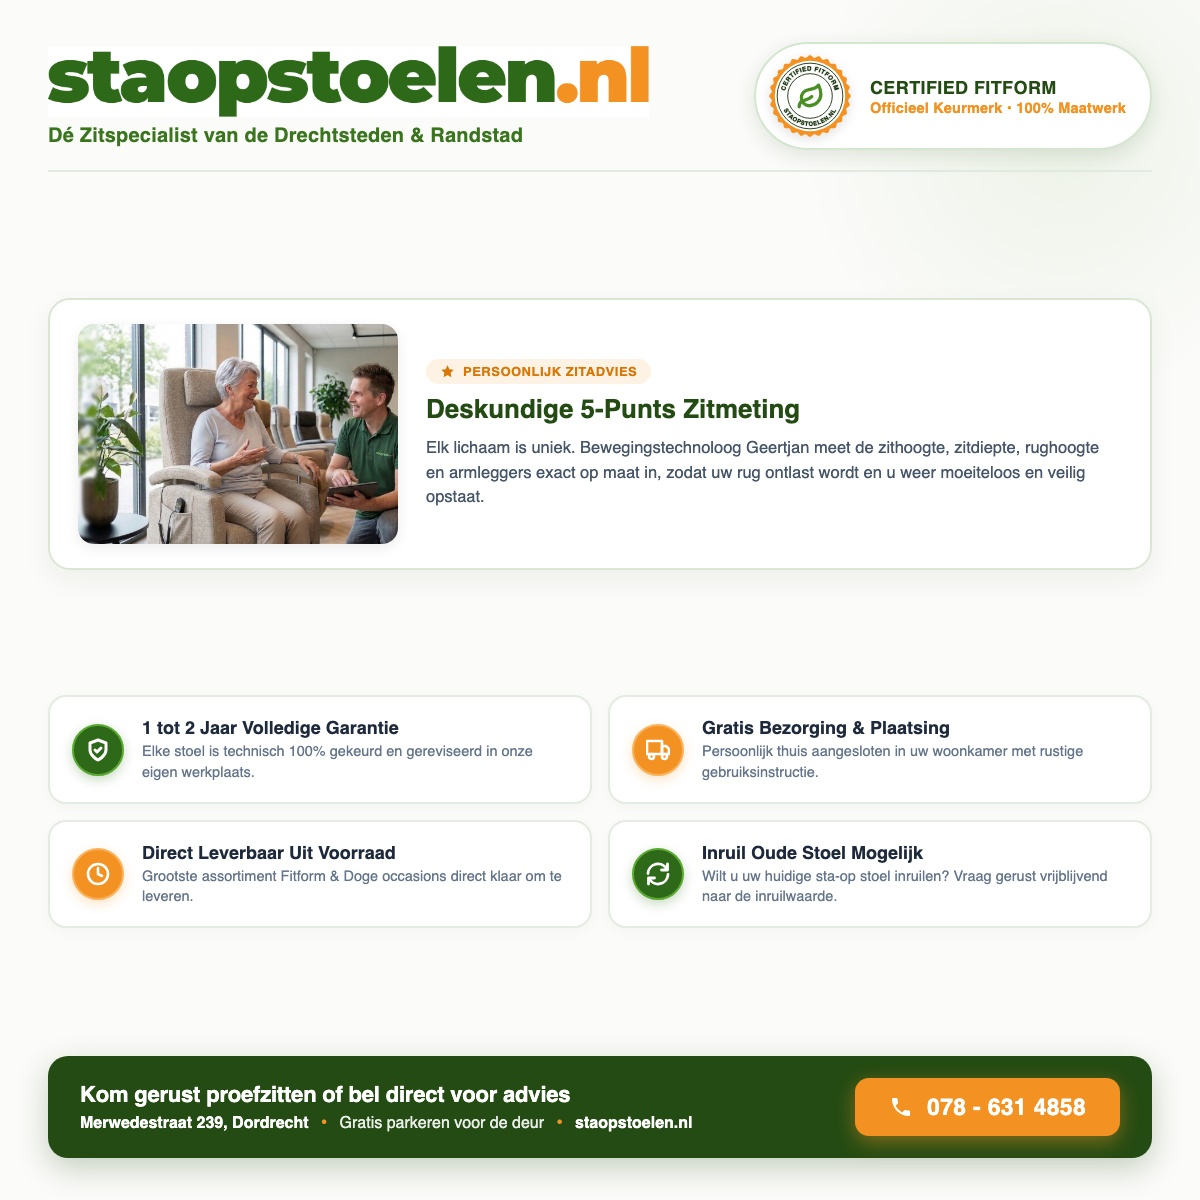
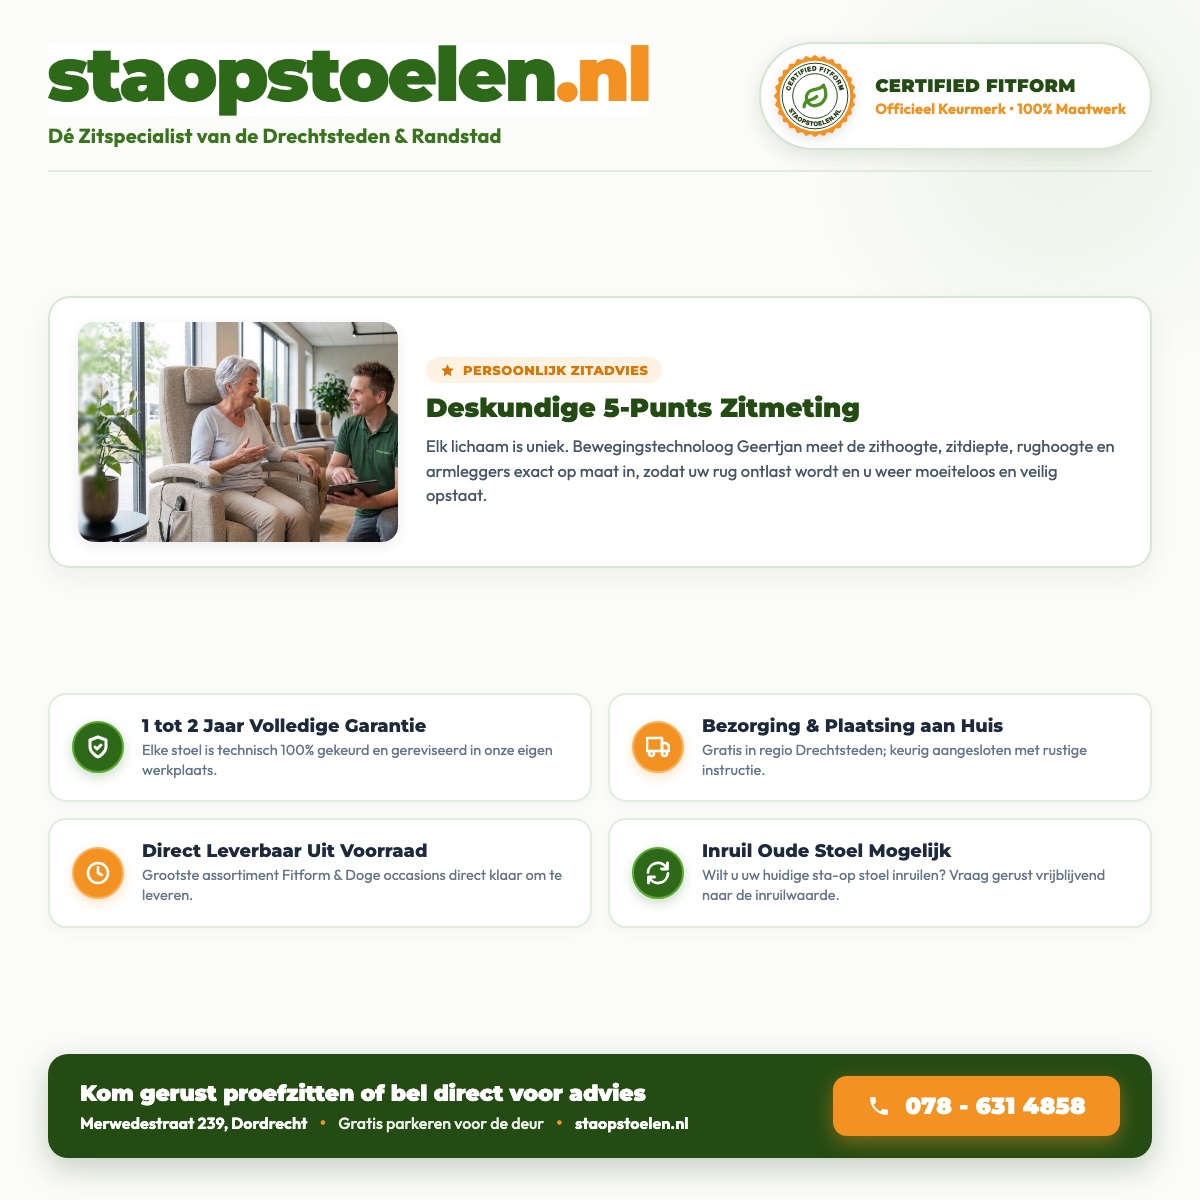
Update bezorgvoorwaarden: alleen Nederland, gratis in regio Drechtsteden

diff --git a/scripts/build_generieke_marktplaats_serie.py b/scripts/build_generieke_marktplaats_serie.py
@@ -333,7 +333,7 @@ SLIDES = [
         "usps": [
             "Gratis 5-Punts Zitmeting",
             "1 Jaar Volledige Garantie aan Huis",
-            "Gratis Bezorgd & Ingesteld",
+            "Bezorging aan Huis (Regio Gratis)",
             "Inruil Oude Stoel Mogelijk"
         ]
     },
@@ -412,14 +412,14 @@ SLIDES = [
         "filename": "6_GRATIS_THUISBEZORGING_EN_PLAATSING.jpg",
         "bg": WORKSPACE / "assets/Sta-op-stoel-DORDRECHT-interior.png",
         "category": "EIGEN BEZORGSERVICE",
-        "title": "Gratis Thuisbezorgd & <span>in Uw Huiskamer Geplaatst</span>",
-        "subtitle": "Wij bezorgen door heel Nederland & Vlaanderen en stellen de stoel direct perfect af.",
+        "title": "Thuisbezorgd & <span>in Uw Huiskamer Geplaatst</span>",
+        "subtitle": "Wij bezorgen in heel Nederland en gratis in de regio Drechtsteden!",
         "content_type": "usp_grid",
         "usps": [
-            "Bezorging op Afspraak",
+            "Gratis in Regio Drechtsteden",
+            "Bezorging door Heel Nederland",
             "Netjes Binnen Geplaatst & Uitgepakt",
-            "Persoonlijke Uitleg Handbediening",
-            "Oude Stoel Desgewenst Meegenomen"
+            "Op Maat Afgesteld op Uw Lichaam"
         ]
     }
 ]

diff --git a/GEMINI.md b/GEMINI.md
@@ -17,3 +17,8 @@ Voor **ELKE** stoel of advertentiereeks die wordt voorbereid voor Marktplaats (o
 - **Logo:** Gebruik altijd het originele zware/vette logo (`assets/staopstoelen_logo_alleen_letters.png`).
 - **Certified Fitform:** Duidelijk zichtbare officiële kwaliteitszegel (`assets/sticker_certified_fitform.svg`).
 - **Footer/Contact:** Geen overbodige emoji's; rustige typografie met terracotta bullet dots (`•`) en de oranje bel-knop met **078 - 631 4858** (Showroom: Merwedestraat 239, Dordrecht).
+
+### Bezorggebied & Voorwaarden:
+- **Alleen in Nederland:** Wij bezorgen uitsluitend in Nederland (geen bezorging in Vlaanderen of daarbuiten).
+- **Gratis in regio Drechtsteden:** Bezorging is kosteloos binnen de regio Drechtsteden (Dordrecht, Zwijndrecht, Papendrecht, Sliedrecht, Hendrik-Ido-Ambacht, Alblasserdam).
+- **Landelijke bezorging:** Buiten de Drechtsteden bezorgen we door heel Nederland met eigen bezorging en installatie.
